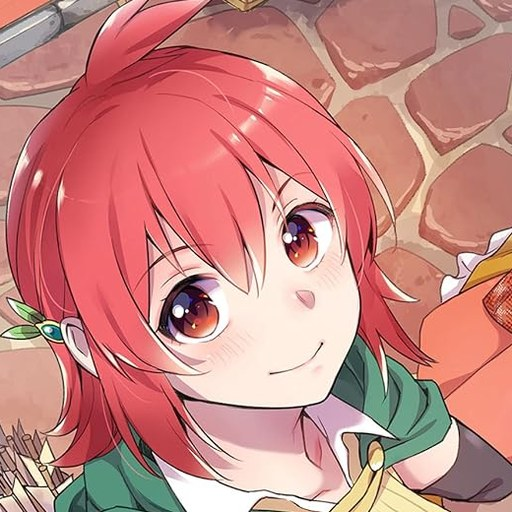
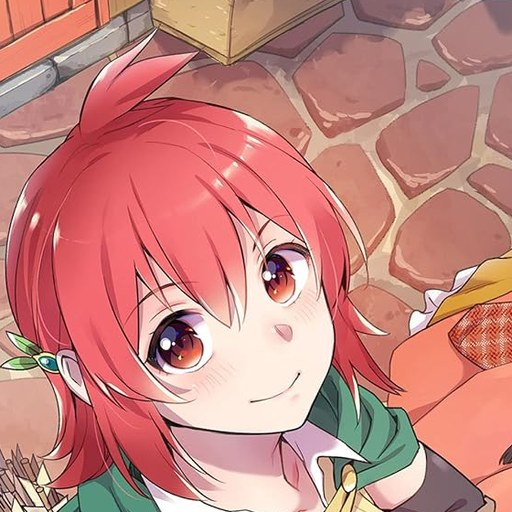
Improve Netori character portrait crops
Reframe the seven portraits around head and shoulders, removing publisher logos, credits, page numbers and neighbouring characters where the source allows.

diff --git a/novels_source/netori-mahoutsukai-no-bouken/visual-assets.md b/novels_source/netori-mahoutsukai-no-bouken/visual-assets.md
@@ -26,17 +26,19 @@ The cover is copied byte-for-byte from the registered chapter 0 illustration.
 | --- | --- | --- | --- |
 | `netori_cover.jpg` | `illust_02.jpg` | full, unchanged | 1061×1500 |
 | `netori_banner.jpg` | `illust_02.jpg` | `(0, 0, 1061, 597)` | 1280×720 |
-| `char_netori_shinji.jpg` | `illust_01.png` | `(430, 340, 690, 600)` | 512×512 |
-| `char_netori_alvin.jpg` | `illust_01.png` | `(180, 30, 420, 270)` | 512×512 |
-| `char_netori_renka.jpg` | `illust_02.jpg` | `(30, 320, 550, 840)` | 512×512 |
-| `char_netori_charlotte.jpg` | `illust_02.jpg` | `(600, 30, 960, 390)` | 512×512 |
-| `char_netori_miris.jpg` | `illust_03.jpg` | `(650, 230, 980, 560)` | 512×512 |
-| `char_netori_agane.jpg` | `illust_03.jpg` | `(230, 100, 560, 430)` | 512×512 |
-| `char_netori_ferry.jpg` | `illust_04.jpg` | `(230, 0, 530, 300)` | 512×512 |
+| `char_netori_shinji.jpg` | `illust_01.png` | `(440, 290, 648, 498)` | 512×512 |
+| `char_netori_alvin.jpg` | `illust_01.png` | `(180, 20, 460, 300)` | 512×512 |
+| `char_netori_renka.jpg` | `illust_02.jpg` | `(30, 260, 590, 820)` | 512×512 |
+| `char_netori_charlotte.jpg` | `illust_02.jpg` | `(450, 0, 900, 450)` | 512×512 |
+| `char_netori_miris.jpg` | `illust_03.jpg` | `(541, 165, 1061, 685)` | 512×512 |
+| `char_netori_agane.jpg` | `illust_03.jpg` | `(185, 0, 635, 450)` | 512×512 |
+| `char_netori_ferry.jpg` | `illust_04.jpg` | `(150, 0, 590, 440)` | 512×512 |
 
 `illust_01.png` is a black-and-white manga character page; the two portraits keep that
 original monochrome treatment. `illust_02.jpg`–`illust_04.jpg` are the official colour
-volume covers used as chapter 0 character plates.
+volume covers used as chapter 0 character plates. Crops frame each head and shoulders
+and exclude publisher logos, author credits, page numbers and neighbouring characters
+where the source layout allows it.
 
 ## Original-image SHA-256
 
